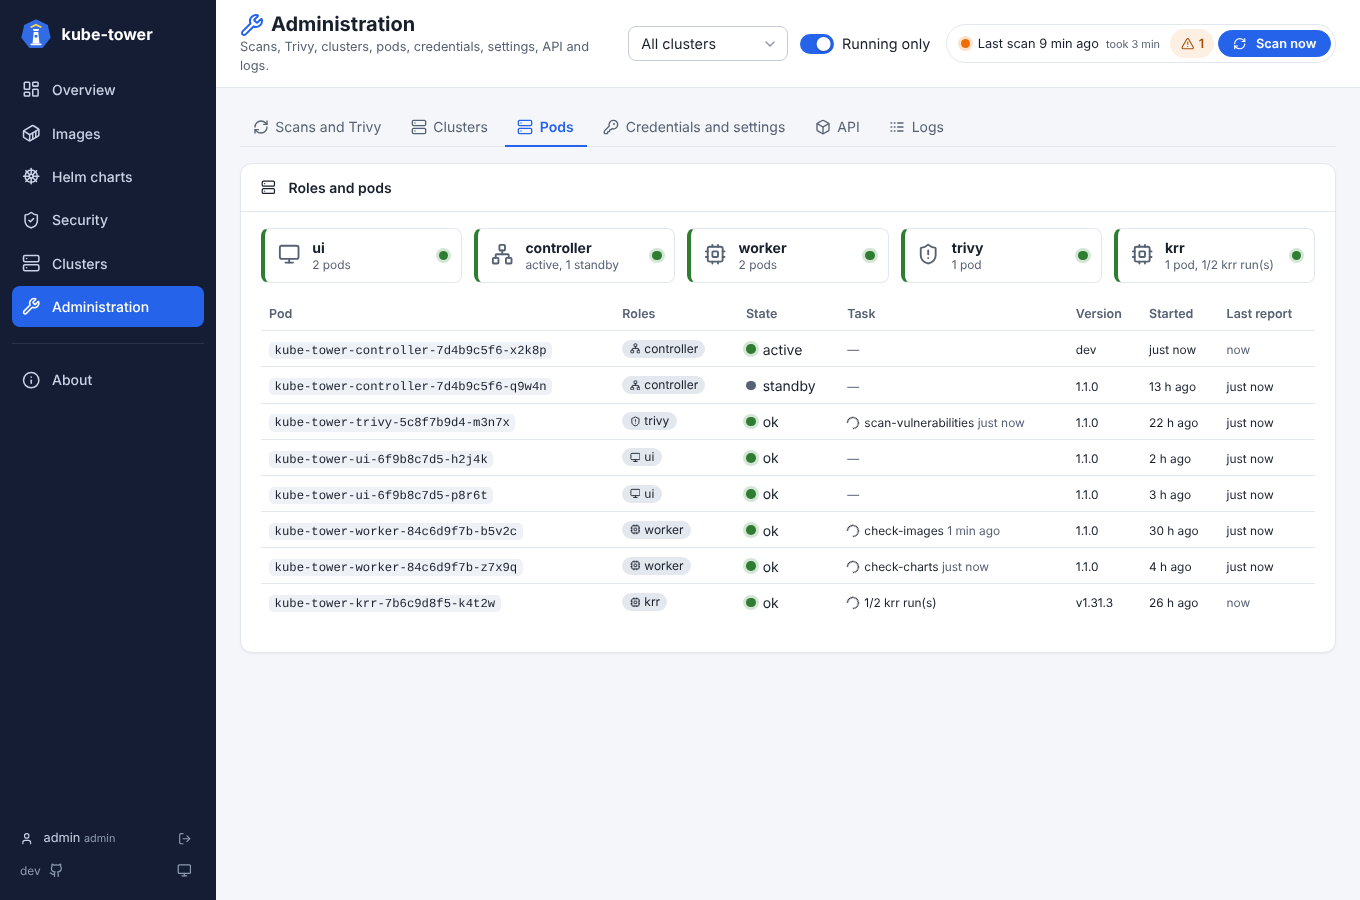
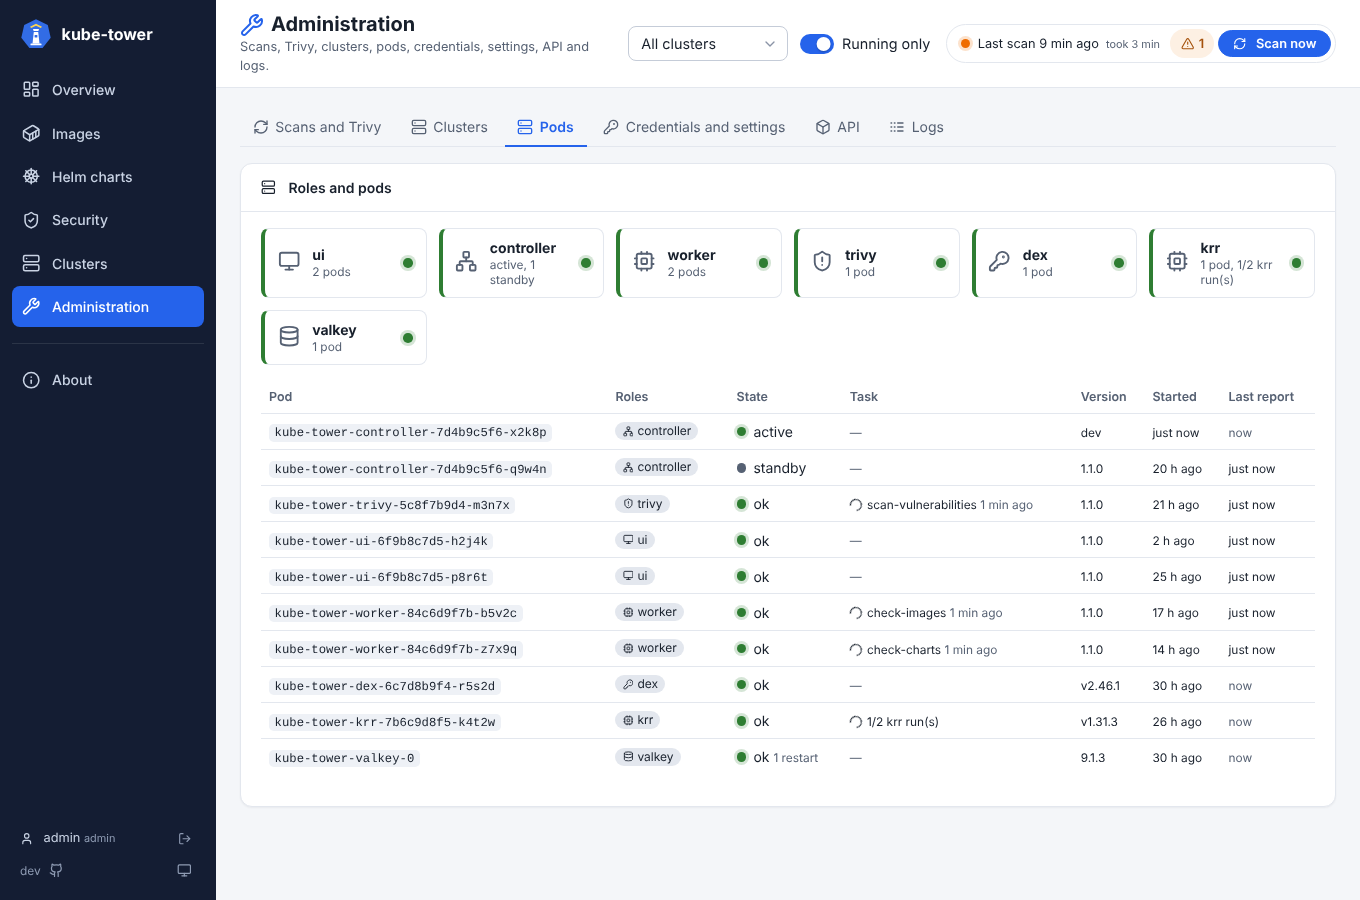
Show every pod of the Helm release on the Pods tab
Valkey, Dex, the Trivy server and krr do not report themselves: the pods labelled
with the release in its namespace are read from the Kubernetes API, with their
state, image tag, start and restarts.

Closes #213

Claude-Session: https://claude.ai/code/session_01RHrAN259RMfmXhb1PG9q7k

diff --git a/src/kube_tower/web/templates/_processes.html b/src/kube_tower/web/templates/_processes.html
@@ -1,13 +1,14 @@
 {% from "_macros.html" import icon %}
 {# State of the roles and of the processes (pods), read again every 5 seconds. #}
-{% set role_icons = {"ui": "monitor", "controller": "network", "worker": "cpu", "trivy": "shield", "krr": "cpu"} %}
+{% set role_icons = {"ui": "monitor", "controller": "network", "worker": "cpu", "trivy": "shield", "krr": "cpu", "valkey": "database", "dex": "key", "trivy-server": "shield"} %}
+{% set role_icons_kt = ["ui", "controller", "worker", "trivy"] %}
 {% set states = {"active": ("ok", "Active controller: holds the Lease, runs the scans"), "standby": ("standby", "Standby controller: takes over if the active one stops"), "ok": ("ok", "Reported in the last 30 seconds"), "lost": ("error", "No report for more than 30 seconds: stopped, restarting, or cannot reach the controller")} %}
 <article id="processes" hx-get="administration/processes?polling=1" hx-trigger="every 5s [document.visibilityState=='visible']" hx-swap="outerHTML">
   <header>{{ icon("server") }}Roles and pods</header>
   <div class="role-tiles">
     {% for r in roles_status %}
     <div class="role-tile role-{{ r.level }}" title="{{ r.role }}: {{ r.summary }}">
-      <span class="role-icon">{{ icon(role_icons[r.role]) }}</span>
+      <span class="role-icon">{{ icon(role_icons.get(r.role, "box")) }}</span>
       <span><strong>{{ r.role }}</strong><small>{{ r.summary }}</small></span>
       <span class="dot dot-{{ 'ok' if r.level == 'ok' else 'warn' if r.level == 'warn' else 'error' }}" role="img" aria-label="{{ r.level }}"></span>
     </div>
@@ -19,15 +20,17 @@
     <tbody>
       {% for p in pods | default(processes) %}
       {% set dot, why = states.get(p.state, ("warn", p.state)) %}
-      {% if p.roles == ["krr"] %}{% set why = "krr pod of the chart: answers its health check" if p.alive else "krr pod of the chart: does not answer its health check (" ~ p.task ~ ")" %}{% endif %}
+      {% set chart_pod = p.roles | length == 1 and p.roles[0] not in role_icons_kt %}
+      {% if chart_pod %}{% set dot = "ok" if p.state == "ok" else "error" %}{% set why = "Pod of the chart, from the Kubernetes API: " ~ ("ready" if p.state == "ok" else p.state) %}{% endif %}
+      {% if p.roles == ["krr"] and p.state == "lost" %}{% set dot, why = "error", "krr pod of the chart: does not answer its health check (" ~ p.task ~ ")" %}{% endif %}
       <tr class="process-{{ p.state }}">
         <td><code>{{ p.name }}</code></td>
-        <td>{% for role in p.roles %}<span class="role-chip">{{ icon(role_icons[role]) }}{{ role }}</span>{% endfor %}</td>
-        <td><span class="process-state" title="{{ why }}"><span class="dot dot-{{ dot }}"></span>{{ p.state }}</span></td>
+        <td>{% for role in p.roles %}<span class="role-chip">{{ icon(role_icons.get(role, "box")) }}{{ role }}</span>{% endfor %}</td>
+        <td><span class="process-state" title="{{ why }}"><span class="dot dot-{{ dot }}"></span>{{ p.state }}</span>{% if restarts and restarts.get(p.name) %} <small class="muted-text" title="Restarts of its containers">{{ restarts[p.name] }} restart{{ "s" if restarts[p.name] > 1 }}</small>{% endif %}</td>
         <td>{% if p.task %}<small class="process-task"><span aria-busy="true">{{ p.task }}</span>{% if p.task_since %} <time datetime="{{ p.task_since.isoformat() }}" class="ago muted-text">{{ p.task_since.strftime("%H:%M:%S") }}</time>{% endif %}</small>{% else %}<small class="muted-text">—</small>{% endif %}</td>
         <td class="hide-sm"><small>{{ p.version }}</small></td>
         <td class="hide-sm">{% if p.started_at %}<small><time datetime="{{ p.started_at.isoformat() }}" class="ago">{{ p.started_at.strftime("%Y-%m-%d %H:%M UTC") }}</time></small>{% endif %}</td>
-        <td class="hide-sm">{% if loop.first or p.roles == ["krr"] %}<small class="muted-text">now</small>{% elif p.seen_at %}<small><time datetime="{{ p.seen_at.isoformat() }}" class="ago">{{ p.seen_at.strftime("%H:%M:%S") }}</time></small>{% endif %}</td>
+        <td class="hide-sm">{% if loop.first or (chart_pod and p.state != "lost") %}<small class="muted-text">now</small>{% elif p.seen_at %}<small><time datetime="{{ p.seen_at.isoformat() }}" class="ago">{{ p.seen_at.strftime("%H:%M:%S") }}</time></small>{% endif %}</td>
       </tr>
       {% endfor %}
     </tbody>

diff --git a/src/kube_tower/chartpods.py b/src/kube_tower/chartpods.py
@@ -1,0 +1,106 @@
+"""The pods of the Helm release, read from the Kubernetes API, for the Pods tab of the Administration page.
+
+The kube-tower pods report themselves (processes.py), the others do not: Valkey, Dex, the Trivy server and the
+krr pod of the chart. The chart gives each kube-tower pod its namespace (POD_NAMESPACE) and the name of its
+release (KUBE_TOWER_RELEASE): the pods labelled app.kubernetes.io/instance=<release> there are the release's.
+Outside a cluster, or without these variables, there is no list. The ClusterRole already lets kube-tower list
+the pods (inventory of the images).
+"""
+
+from __future__ import annotations
+
+import asyncio
+import logging
+import os
+import time
+from dataclasses import dataclass
+from datetime import datetime
+
+from kubernetes import client, config
+
+log = logging.getLogger(__name__)
+
+CACHE_SECONDS = 5  # the Pods tab polls every 5 seconds, in every browser showing it
+INSTANCE = "app.kubernetes.io/instance"
+_cache: tuple[float, list[ChartPod] | None] = (0.0, None)
+_api: client.CoreV1Api | None = None
+
+
+@dataclass
+class ChartPod:
+    name: str
+    component: str  # app.kubernetes.io/component, else the app.kubernetes.io/name without the chart prefix
+    ready: bool
+    state: str  # ok, or why not: pending, crashloopbackoff, imagepullbackoff, terminating...
+    restarts: int = 0
+    version: str = ""  # tag of the image of its first container
+    started_at: datetime | None = None
+
+
+def _component(labels: dict[str, str], release: str) -> str:
+    if component := labels.get("app.kubernetes.io/component"):
+        return component
+    name = labels.get("app.kubernetes.io/name", "")
+    for prefix in ("kube-tower-", f"{release}-"):
+        if name.startswith(prefix):
+            return name[len(prefix) :]
+    return name or "pod"
+
+
+def _tag(image: str) -> str:
+    image = image.split("@", 1)[0]
+    last = image.rsplit("/", 1)[-1]
+    return last.split(":", 1)[1] if ":" in last else ""
+
+
+def chart_pod(pod, release: str) -> ChartPod:
+    """A ChartPod from a V1Pod."""
+    meta, status = pod.metadata, pod.status
+    statuses = (status.container_statuses if status else None) or []
+    ready = bool(statuses) and all(s.ready for s in statuses)
+    phase = ((status.phase if status else None) or "Unknown").lower()
+    reason = next((s.state.waiting.reason for s in statuses if s.state and s.state.waiting and s.state.waiting.reason), "")
+    if meta.deletion_timestamp:
+        state = "terminating"
+    elif ready:
+        state = "ok"
+    else:
+        state = (reason or ("not ready" if phase == "running" else phase)).lower()
+    containers = pod.spec.containers if pod.spec else []
+    return ChartPod(
+        name=meta.name,
+        component=_component(meta.labels or {}, release),
+        ready=ready,
+        state=state,
+        restarts=sum(s.restart_count or 0 for s in statuses),
+        version=_tag(containers[0].image) if containers else "",
+        started_at=status.start_time if status else None,
+    )
+
+
+def _list(namespace: str, release: str) -> list[ChartPod]:
+    global _api
+    if _api is None:
+        configuration = client.Configuration()
+        config.load_incluster_config(client_configuration=configuration)
+        _api = client.CoreV1Api(client.ApiClient(configuration))
+    pods = _api.list_namespaced_pod(namespace, label_selector=f"{INSTANCE}={release}", _request_timeout=5).items
+    return sorted((chart_pod(p, release) for p in pods), key=lambda p: (p.component, p.name))
+
+
+async def chart_pods() -> list[ChartPod] | None:
+    """The pods of the release, None when they cannot be listed (outside a cluster, no permission)."""
+    global _cache
+    namespace, release = os.environ.get("POD_NAMESPACE"), os.environ.get("KUBE_TOWER_RELEASE")
+    if not namespace or not release:
+        return None
+    now = time.monotonic()
+    if now - _cache[0] < CACHE_SECONDS:
+        return _cache[1]
+    try:
+        pods = await asyncio.to_thread(_list, namespace, release)
+    except Exception as exc:  # noqa: BLE001 - the tab shows the kube-tower pods anyway
+        log.debug("cannot list the pods of the release %s in %s: %s", release, namespace, exc)
+        pods = None
+    _cache = (now, pods)
+    return pods

diff --git a/tests/test_chartpods.py b/tests/test_chartpods.py
@@ -1,0 +1,64 @@
+"""The pods of the Helm release on the Pods tab of the Administration page."""
+
+from datetime import UTC, datetime
+
+from kubernetes import client
+
+from kube_tower import chartpods
+from kube_tower.chartpods import ChartPod, chart_pod, chart_pods
+
+STARTED = datetime(2026, 11, 9, 10, 0, tzinfo=UTC)
+
+
+def _pod(name, labels, image="docker.io/valkey/valkey:9.1.3", ready=True, waiting=None, restarts=0, deleted=False):
+    state = client.V1ContainerState(waiting=client.V1ContainerStateWaiting(reason=waiting)) if waiting else None
+    return client.V1Pod(
+        metadata=client.V1ObjectMeta(name=name, labels=labels, deletion_timestamp=STARTED if deleted else None),
+        spec=client.V1PodSpec(containers=[client.V1Container(name="c", image=image)]),
+        status=client.V1PodStatus(
+            phase="Running" if ready or waiting else "Pending",
+            start_time=STARTED,
+            container_statuses=[
+                client.V1ContainerStatus(name="c", image=image, image_id="", ready=ready, restart_count=restarts, state=state)
+            ]
+            if ready or waiting
+            else None,
+        ),
+    )
+
+
+def test_chart_pod():
+    valkey = chart_pod(_pod("kt-valkey-0", {"app.kubernetes.io/name": "kube-tower-valkey"}), "kt")
+    assert valkey == ChartPod("kt-valkey-0", "valkey", True, "ok", 0, "9.1.3", STARTED)
+    krr = chart_pod(
+        _pod("kt-krr-1", {"app.kubernetes.io/component": "krr"}, "robustadev/krr:v1.31.3", False, "CrashLoopBackOff", 4),
+        "kt",
+    )
+    assert (krr.component, krr.ready, krr.state, krr.restarts, krr.version) == ("krr", False, "crashloopbackoff", 4, "v1.31.3")
+    pending = chart_pod(_pod("kt-dex-1", {"app.kubernetes.io/name": "kt-dex"}, "ghcr.io/dexidp/dex@sha256:ab", False), "kt")
+    assert (pending.component, pending.state, pending.version) == ("dex", "pending", "")
+    gone = chart_pod(_pod("kt-1", {"app.kubernetes.io/name": "other"}, "localhost:5000/kt", deleted=True), "kt")
+    assert (gone.component, gone.state, gone.version) == ("other", "terminating", "")
+    assert chart_pod(_pod("x", {}), "kt").component == "pod"
+
+
+async def test_chart_pods(monkeypatch):
+    listed = []
+
+    def fake_list(namespace, release):
+        listed.append((namespace, release))
+        if release == "broken":
+            raise RuntimeError("forbidden")
+        return [ChartPod("kt-valkey-0", "valkey", True, "ok")]
+
+    monkeypatch.setattr(chartpods, "_list", fake_list)
+    monkeypatch.setattr(chartpods, "_cache", (0.0, None))
+    monkeypatch.delenv("KUBE_TOWER_RELEASE", raising=False)
+    monkeypatch.setenv("POD_NAMESPACE", "kube-tower")
+    assert await chart_pods() is None and listed == []  # not deployed by the chart
+    monkeypatch.setenv("KUBE_TOWER_RELEASE", "kt")
+    assert [p.name for p in await chart_pods()] == ["kt-valkey-0"]
+    assert [p.name for p in await chart_pods()] == ["kt-valkey-0"] and listed == [("kube-tower", "kt")]  # cached
+    monkeypatch.setattr(chartpods, "_cache", (0.0, None))
+    monkeypatch.setenv("KUBE_TOWER_RELEASE", "broken")
+    assert await chart_pods() is None

diff --git a/src/kube_tower/web/ui.py b/src/kube_tower/web/ui.py
@@ -21,6 +21,7 @@ from fastapi.templating import Jinja2Templates
 from starlette.middleware.gzip import GZipMiddleware
 
 from kube_tower import __version__
+from kube_tower.chartpods import chart_pods
 from kube_tower.clusterview import cluster_view, cluster_views, running_images
 from kube_tower.config import DEFAULT_CONFIG_PATH, ROLES, Settings
 from kube_tower.models import (
@@ -34,7 +35,7 @@ from kube_tower.models import (
     Status,
     Usage,
 )
-from kube_tower.processes import RoleStatus, roles_status
+from kube_tower.processes import ProcessInfo, RoleStatus, roles_status
 from kube_tower.resources import krr_process
 from kube_tower.scanner import chart_key, image_key
 from kube_tower.versions import versioning
@@ -73,15 +74,35 @@ LOG_LEVELS = ["DEBUG", "INFO", "WARNING", "ERROR", "CRITICAL"]
 
 
 async def _processes_context(backend, settings: Settings) -> dict:
-    """The kube-tower processes, the state of their roles, and the krr pod of the chart when there is one."""
+    """The kube-tower processes and the state of their roles, then the other pods of the Helm release (Valkey,
+    Dex, Trivy server, krr), read from the Kubernetes API: they do not report themselves."""
     processes = backend.processes()
     statuses = roles_status(processes)
-    pods = list(processes)
-    if krr := await krr_process(settings.resources):
+    pods, restarts = list(processes), {}
+    krr = await krr_process(settings.resources)
+    release = await chart_pods()
+    if release is not None:
+        known = {p.name for p in processes}
+        restarts = {p.name: p.restarts for p in release if p.restarts}
+        others = [p for p in release if p.name not in known]
+        for p in others:
+            task = krr.task if krr and p.component == "krr" and krr.alive else ""
+            pods.append(ProcessInfo(p.name, [p.component], p.state, p.version, p.started_at, task=task))
+        for component in dict.fromkeys(p.component for p in others):
+            group = [p for p in others if p.component == component]
+            ready = sum(p.ready for p in group)
+            parts = [f"{ready} pod{'s' if ready != 1 else ''}" if ready else "no pod ready"]
+            if len(group) > ready:
+                parts.append(f"{len(group) - ready} not ready")
+            if component == "krr" and krr and krr.task:
+                parts.append(krr.task)
+            level = "error" if not ready else "warn" if len(group) > ready else "ok"
+            statuses.append(RoleStatus(component, level, ", ".join(parts), len(group)))
+    elif krr:  # pods not listed (outside a cluster, no permission): the krr pod from its health check
         pods.append(krr)
         summary = "1 pod" + (f", {krr.task}" if krr.task else "") if krr.alive else "unreachable"
         statuses.append(RoleStatus("krr", "ok" if krr.alive else "error", summary, 1))
-    return {"processes": processes, "pods": pods, "roles_status": statuses}
+    return {"processes": processes, "pods": pods, "restarts": restarts, "roles_status": statuses}
 
 
 def _camel(data):

diff --git a/tests/test_web.py b/tests/test_web.py
@@ -1265,7 +1265,7 @@ def test_web_layer_only_talks_to_the_backend():
     assert client.get("/administration").status_code == 200
 
 
-def test_roles_and_pods_on_the_administration_page():
+def test_roles_and_pods_on_the_administration_page(monkeypatch):
     from kube_tower.processes import ProcessInfo, roles_status
 
     client, _ = _client()
@@ -1301,6 +1301,36 @@ def test_roles_and_pods_on_the_administration_page():
         fragment = " ".join(client.get("/administration?tab=pods").text.split())
         assert "<strong>krr</strong><small>unreachable</small>" in fragment and "unreachable: ConnectError" in fragment
     resources.enabled = False
+
+    # every pod of the Helm release, from the Kubernetes API: Valkey, Dex, krr (with its runs)...
+    from kube_tower.chartpods import ChartPod
+
+    release = [
+        ChartPod("kube-tower-worker-1", "worker", True, "ok", 2),
+        ChartPod("kube-tower-dex-5d", "dex", True, "ok", 0, "v2.46.1"),
+        ChartPod("kube-tower-krr-7b", "krr", True, "ok", 0, "v1.31.3"),
+        ChartPod("kube-tower-valkey-0", "valkey", False, "crashloopbackoff", 5, "9.1.3"),
+    ]
+
+    async def pods():
+        return release
+
+    monkeypatch.setattr("kube_tower.web.ui.chart_pods", pods)
+    resources.enabled = True
+    with respx.mock:
+        respx.get("http://kube-tower-krr:8080/healthz").respond(json={"pod": "kube-tower-krr-7b", "running": 1, "concurrency": 2})
+        fragment = " ".join(client.get("/administration/processes").text.split())
+    resources.enabled = False
+    assert "<code>kube-tower-dex-5d</code>" in fragment and "<small>v2.46.1</small>" in fragment
+    assert fragment.count("<code>kube-tower-worker-1</code>") == 1  # a kube-tower pod: its own report
+    assert "2 restarts" in fragment and "5 restarts" in fragment
+    assert "<strong>dex</strong><small>1 pod</small>" in fragment
+    assert "<strong>krr</strong><small>1 pod, 1/2 krr run(s)</small>" in fragment
+    assert (
+        'class="role-tile role-error"' in fragment
+        and "<strong>valkey</strong><small>no pod ready, 1 not ready</small>" in fragment
+    )
+    assert "crashloopbackoff" in fragment and "1/2 krr run(s)" in fragment
 
     now = datetime.now(UTC)
     statuses = roles_status(

diff --git a/CHANGELOG.md b/CHANGELOG.md
@@ -27,9 +27,7 @@ All notable changes to this project are documented here. The format follows
   Services proxy to reach Prometheus) and a NetworkPolicy for the krr pod. A controller that starts from
   the inventory kept in Valkey (krr just enabled, restart) analyses at once the clusters without
   recommendations yet, instead of waiting for the next scan. When krr finds no Prometheus, the Resources page says
-  why (the address it tried and the error) instead of krr's `AttributeError ... get_cluster_summary`. The
-  Pods tab of the Administration page shows the krr pod (its version, start and runs in progress) from its
-  health check.
+  why (the address it tried and the error) instead of krr's `AttributeError ... get_cluster_summary`.
 
 - **Deprecated APIs** on the Clusters page (see [Clusters page](docs/ui-clusters.md#deprecated-apis)):
   the API versions clients still request that a coming Kubernetes release removes, read from the
@@ -42,6 +40,12 @@ All notable changes to this project are documented here. The format follows
   for `-rc.N`, with the notes of its CHANGELOG section and the image and chart to install. The tag must
   match the versions of `pyproject.toml` and `Chart.yaml`, else the release and the chart publication
   fail (see [releasing](docs/development.md#releasing)).
+
+- **Every pod of the release on the Pods tab** of the Administration page: Valkey, Dex, the Trivy server and
+  krr do not report themselves like the kube-tower pods, so they are read from the Kubernetes API (pods
+  labelled with the release in its namespace, `KUBE_TOWER_RELEASE` set by the chart; kube-tower could already
+  list the pods). One tile per component, their state (ready, or `pending`, `crashloopbackoff`...), image tag,
+  start and restarts; the krr runs in progress from its health check.
 
 ### Changed
 

diff --git a/docs/ui-administration.md b/docs/ui-administration.md
@@ -32,14 +32,16 @@ the list of that cluster. See [clusters](clusters.md). Their nodes are on the [C
 
 ![Pods](images/pods.png)
 
-- One tile per role (**ui**, **controller**, **worker**, **trivy**, and **krr** when enabled): green when its pods run, orange when
+- One tile per role (**ui**, **controller**, **worker**, **trivy**): green when its pods run, orange when
   some are lost, red when none runs it.
 - Then every pod: roles, state (**active** / **standby** controller, **ok**, **lost** after 30 s without
   report), current task, version, start time, last report. Refreshed every 5 seconds.
-- In single mode, the only line is the one pod. See [scaling](scaling.md).
-- With [krr](resources.md) (`krr.enabled`), a **krr** tile and a line for the krr pod of the chart. It is not
-  a kube-tower process: its health check is read every 5 seconds, with its krr version, start time and the
-  krr runs in progress; red **unreachable** when it does not answer.
+- In single mode, the only kube-tower line is the one pod. See [scaling](scaling.md).
+- The other pods of the Helm release, which do not report themselves, are read from the Kubernetes API
+  (those labelled `app.kubernetes.io/instance=<release>` in its namespace): **valkey**, **dex**, the Trivy
+  server, **krr**. One tile per component, and a line per pod with its state (**ok** when ready, else the
+  reason: `pending`, `crashloopbackoff`...), the tag of its image and its start time. The restarts of every pod
+  show next to its state. The krr line also shows the krr runs in progress, read from its health check.
 
 ## Credentials and settings
 

diff --git a/docs/resources.md b/docs/resources.md
@@ -104,8 +104,8 @@ which runs krr against that cluster and answers its JSON result.
 When the controller starts from the inventory kept in Valkey (restart, upgrade, krr just enabled), it does
 not wait for the next scan: the reachable clusters without recommendations yet are analysed at once. The krr
 pod logs nothing until it is asked: with no scan running, `listening on :8080` is its only line.
-The Pods tab of the [Administration page](ui-administration.md#pods) shows the krr pod, its version and the
-krr runs in progress, read from its `/healthz`.
+The Pods tab of the [Administration page](ui-administration.md#pods) shows the krr pod with the other pods of the
+release, and the krr runs in progress, read from its `/healthz`.
 
 The krr pod only accepts the requests of the kube-tower ServiceAccount: it checks the token of the caller
 with a `TokenReview` (its ServiceAccount is bound to `system:auth-delegator`), and a NetworkPolicy lets only

diff --git a/docs/permissions.md b/docs/permissions.md
@@ -6,7 +6,8 @@ that widen them.
 
 ## On the cluster kube-tower runs in
 
-On the cluster it runs in, kube-tower gets a ClusterRole with `get`/`list` on pods, nodes,
+On the cluster it runs in, kube-tower gets a ClusterRole with `get`/`list` on pods (also read for the
+[Pods tab](ui-administration.md#pods): the pods of its own release), nodes,
 deployments, statefulsets, daemonsets, cronjobs, `applications.argoproj.io`, the Flux
 `helmreleases` and their `helmrepositories`, `gitrepositories` and `ocirepositories`, and
 the Trivy Operator reports (`vulnerabilityreports`, `configauditreports`, `exposedsecretreports`,
